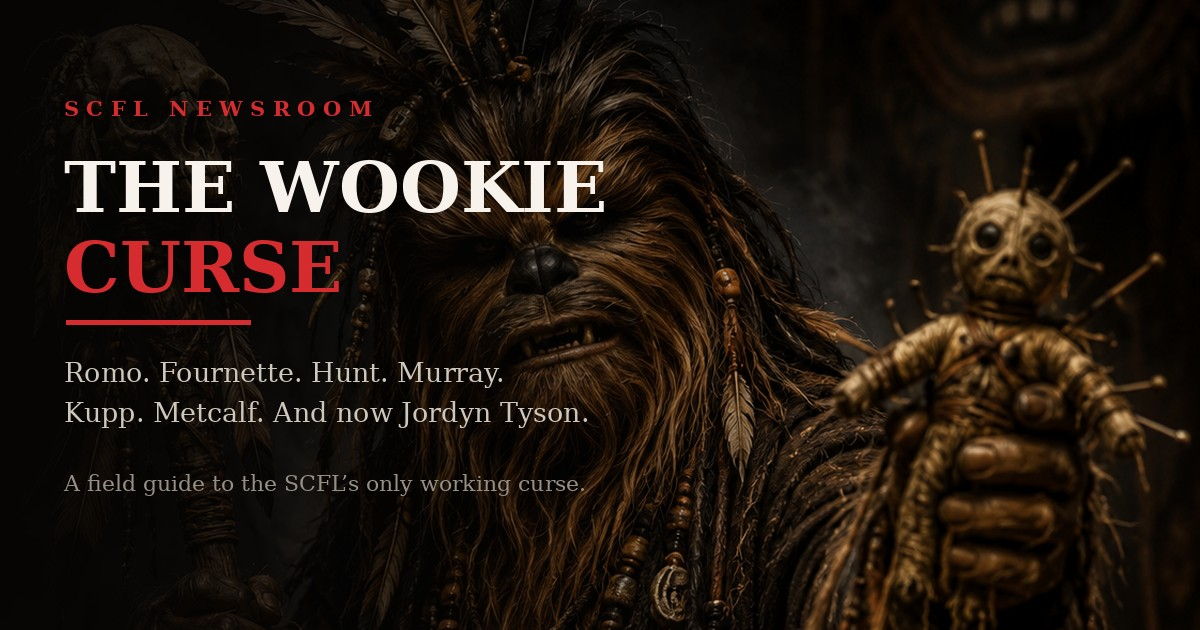
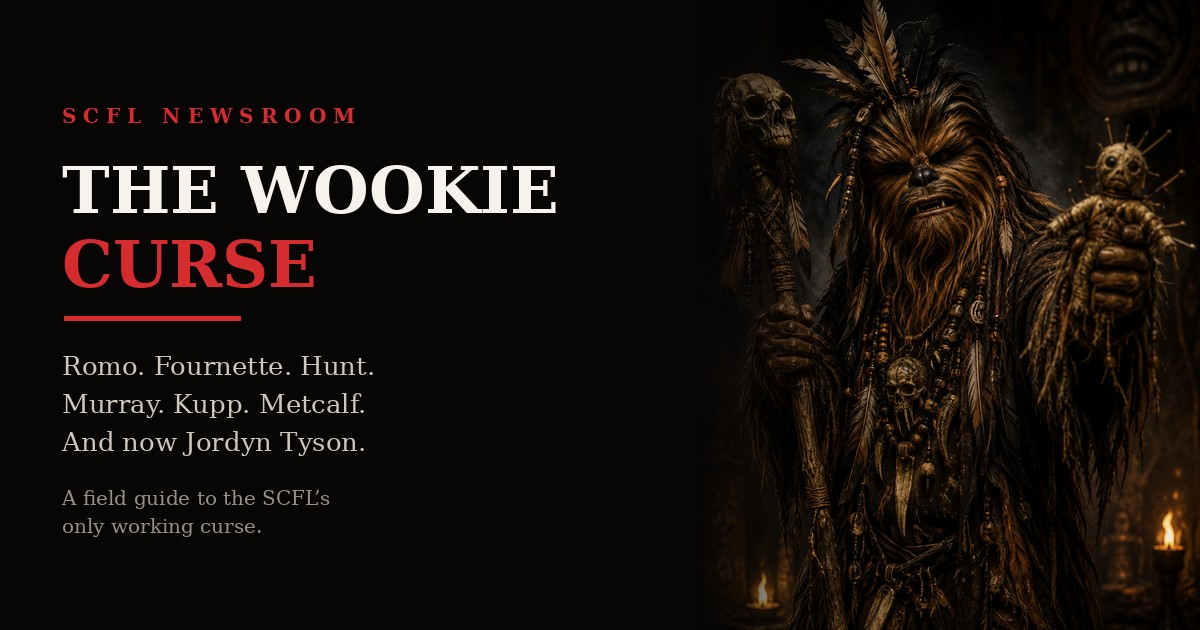
Wookie Curse: show the cover art uncropped
The full-bleed cover was cropping the skull staff and the voodoo doll off
the edges. Cover now renders the complete artwork (contained, not cropped)
with the masthead beneath it, and the share card places the whole figure
at right with the type on black at left.

Claude-Session: https://claude.ai/code/session_01UFuyFKGPqfLKJjzL4J7sQk

diff --git a/scfl-wookie-curse.html b/scfl-wookie-curse.html
@@ -64,24 +64,24 @@ p.b b{color:var(--ink);}
 .board tr.hi td{background:#fdf3f3;color:var(--red-d);}
 .board tr.hi td.v{color:var(--red);}
 .freeze{text-align:center;font-size:54px;line-height:1;margin:10px 0 14px;}
-/* photo cover */
-.photocover{position:absolute;inset:0;background:#0a0806 center 26%/cover no-repeat;
-  display:flex;flex-direction:column;justify-content:space-between;padding:26px 24px 78px;}
-.photocover:before{content:'';position:absolute;inset:0;
-  background:linear-gradient(180deg,rgba(8,6,5,.80) 0%,rgba(8,6,5,.12) 30%,rgba(8,6,5,.55) 62%,rgba(8,6,5,.95) 100%);}
-.pc-top,.pc-bot{position:relative;text-align:center;}
-.pc-kick{font-family:var(--sans);font-size:10px;font-weight:900;letter-spacing:.32em;
-  text-transform:uppercase;color:#ff6b6b;text-shadow:0 1px 6px rgba(0,0,0,.8);}
-.pc-mast{font-family:var(--serif);font-weight:900;font-size:46px;line-height:.98;color:#f7f3ec;
-  text-shadow:0 2px 14px rgba(0,0,0,.85);}
+/* photo cover — full artwork, uncropped */
+.photocover{position:absolute;inset:0;background:#0a0806;display:flex;flex-direction:column;
+  padding:18px 0 74px;}
+.pc-kick{flex:0 0 auto;text-align:center;font-family:var(--sans);font-size:10px;font-weight:900;
+  letter-spacing:.32em;text-transform:uppercase;color:#e8393e;padding:0 18px 12px;}
+.pc-art{flex:1 1 auto;min-height:0;width:100%;object-fit:contain;display:block;}
+.pc-bot{flex:0 0 auto;position:relative;text-align:center;padding:14px 22px 0;
+  background:linear-gradient(180deg,rgba(10,8,6,0) 0%,#0a0806 22%);margin-top:-26px;}
+.pc-mast{font-family:var(--serif);font-weight:900;font-size:44px;line-height:.98;color:#f7f3ec;
+  text-shadow:0 2px 14px rgba(0,0,0,.9);}
 .pc-mast span{color:#e8393e;}
-.pc-rule{width:70px;height:3px;background:#c20f16;margin:14px auto;}
-.pc-h{font-family:var(--serif);font-weight:900;font-size:29px;line-height:1.12;color:#fff;
-  text-shadow:0 2px 12px rgba(0,0,0,.9);margin-bottom:9px;}
-.pc-dek{font-family:var(--serif);font-style:italic;font-size:15.5px;line-height:1.45;color:#d8d2c8;
-  text-shadow:0 1px 8px rgba(0,0,0,.9);max-width:30em;margin:0 auto 14px;}
+.pc-rule{width:70px;height:3px;background:#c20f16;margin:13px auto;}
+.pc-h{font-family:var(--serif);font-weight:900;font-size:27px;line-height:1.12;color:#fff;
+  margin-bottom:8px;}
+.pc-dek{font-family:var(--serif);font-style:italic;font-size:15px;line-height:1.45;color:#cfc9bf;
+  max-width:30em;margin:0 auto 12px;}
 .pc-by{font-family:var(--sans);font-size:10.5px;font-weight:800;letter-spacing:.2em;
-  text-transform:uppercase;color:#b3aca1;text-shadow:0 1px 6px rgba(0,0,0,.9);}
+  text-transform:uppercase;color:#a89f93;}
 /* victim support notice */
 .psa{border:2px solid var(--red);border-radius:14px;padding:16px 18px;margin:16px 0 6px;
   background:#fdf3f3;text-align:center;}
@@ -94,7 +94,7 @@ p.b b{color:var(--ink);}
 </head>
 <body>
 <div class="book"><div class="pages">
-<section class="page"><div class="photocover" style="background-image:url(scfl-wookie-curse-art.jpg)"><div class="pc-top"><div class="pc-kick">SCFL NewsRoom &middot; Investigations</div></div><div class="pc-bot"><div class="pc-mast">The Wookie <span>Curse</span></div><div class="pc-rule"></div><div class="pc-h">The Roll Call</div><div class="pc-dek">Romo. Fournette. Hunt. Murray. Kupp. Metcalf. And, as of last Thursday, Jordyn Tyson. A field guide to the SCFL&rsquo;s only working curse.</div><div class="pc-by">The SCFL NewsRoom</div></div></div></section>
+<section class="page"><div class="photocover"><div class="pc-kick">SCFL NewsRoom &middot; Investigations</div><img class="pc-art" src="scfl-wookie-curse-art.jpg" alt="The Wookie Curse"><div class="pc-bot"><div class="pc-mast">The Wookie <span>Curse</span></div><div class="pc-rule"></div><div class="pc-h">The Roll Call</div><div class="pc-dek">Romo. Fournette. Hunt. Murray. Kupp. Metcalf. And, as of last Thursday, Jordyn Tyson. A field guide to the SCFL&rsquo;s only working curse.</div><div class="pc-by">The SCFL NewsRoom</div></div></div></section>
 <section class="page"><div class="page-inner"><div class="runhead">SCFL NewsRoom · Investigations · August 2026</div><span class="flag">Special Feature</span><div class="dateline">MOS EISLEY · AUGUST 18, 2026</div><h1 class="hl">The Roll Call</h1><p class="b"><span class="drop">E</span>very league has superstitions. Most of them are noise — a lucky jersey, a bad seat, a manager who will not say a player’s name out loud in a good week. The SCFL has exactly one that keeps surviving contact with the evidence, and it can be stated in six words.</p><p class="b">Players the Wookie trades away get hurt.</p><p class="b">Not while he owns them. That is the part people get wrong when they first arrive. On his roster they are fine — bored, maybe, occasionally underused, but structurally intact. It is the leaving that does it. The moment a player crosses out of the Wookie’s building and into somebody else’s, the clock starts. And the clock has a very good record.</p><div class="freeze">🥶</div><p class="b">It has a symbol, too. 🥶 — the cold face. In this league it is not a temperature. It is a mark, and when the Wookie posts it, the chat goes quiet for a second and then starts writing the obituary. Horse Collars gave the whole thing its formal name in October 2022, watching it work in real time: “Voodoo for trades. Wookie Curse. He has the curse.”</p></div></section>
 <section class="page"><div class="page-inner"><div class="runhead">SCFL NewsRoom · Investigations · August 2026</div><p class="b">Nobody voted it into existence and nobody wrote it down. The closest thing to a founding document is a throwaway line from August 1, 2021, when an argument about something else entirely pulled the Wookie into a thread he had slept through. “I think I used those for the curse,” he wrote. “Only time I think I really even mentioned voodoo in here was for the 🥶.”</p><p class="b">That is the whole liturgy. No ritual, no doll, no incantation. A man, an emoji, and a transaction log that keeps ending in an injury report.</p><p class="b">What follows is the roll call. It is not complete. It is only the ones the chat caught.</p><div class="sect">Tony Romo</div><p class="b">Patient zero, and the case the Wookie himself still nominates. Pressed in February 2022 on whether the thing was even still live, he answered like a man reciting scripture: “Romo was still the greatest instance of the 🥶 ever.” Then, because he is not a monster, an apology to the manager who had been holding the receipt: “Sorry @Mike.”</p></div></section>
 <section class="page"><div class="page-inner"><div class="runhead">SCFL NewsRoom · Investigations · August 2026</div><p class="b">The mechanism, in his own words: “Traded and less than a week later broken back.” The Machines, who keeps this league’s institutional memory the way other men keep receipts, offered no rebuttal at all. He offered corroboration: “It was next level.”</p><div class="sect">Leonard Fournette</div><p class="b">The only name on this list who was marked out loud, in public, before anything happened to him. On a Thursday night in September 2021, watching from across the league, the Wookie posted four characters and a name: “🥶 Fournette….”</p><p class="b">Fournette came onto the Wookie’s roster in the enormous August 2022 quarterback chain and was moved along again inside the year. By November 13 the Wookie was noting the aftermath in the chat himself, in four words: “Lenny hip injury too.”</p><div class="sect">Kareem Hunt</div><p class="b">This one is not our finding. It belongs to the Pork Chop Express, who spent his rookie year in this league acquiring players out of the Wookie’s building and has never fully recovered from the experience. His confession, filed in October 2022, is quoted in full because it cannot be improved on:</p></div></section>
